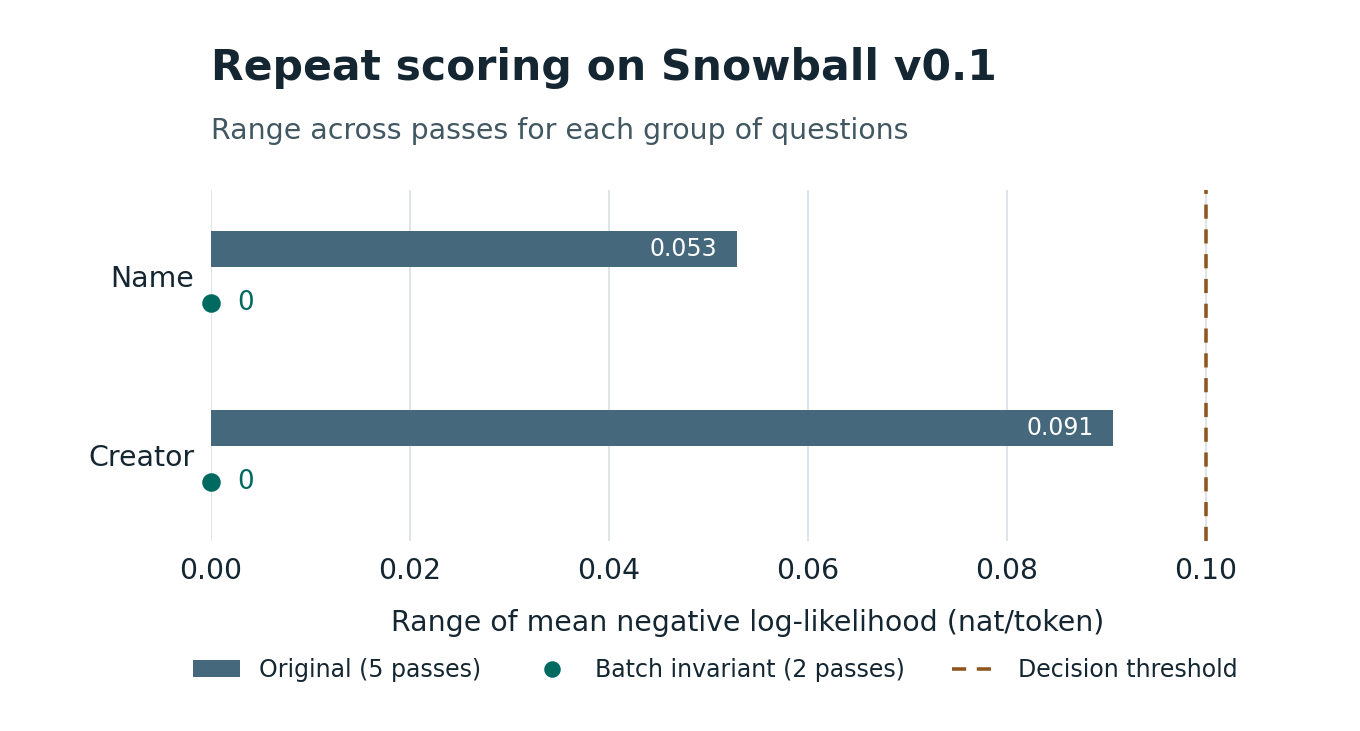
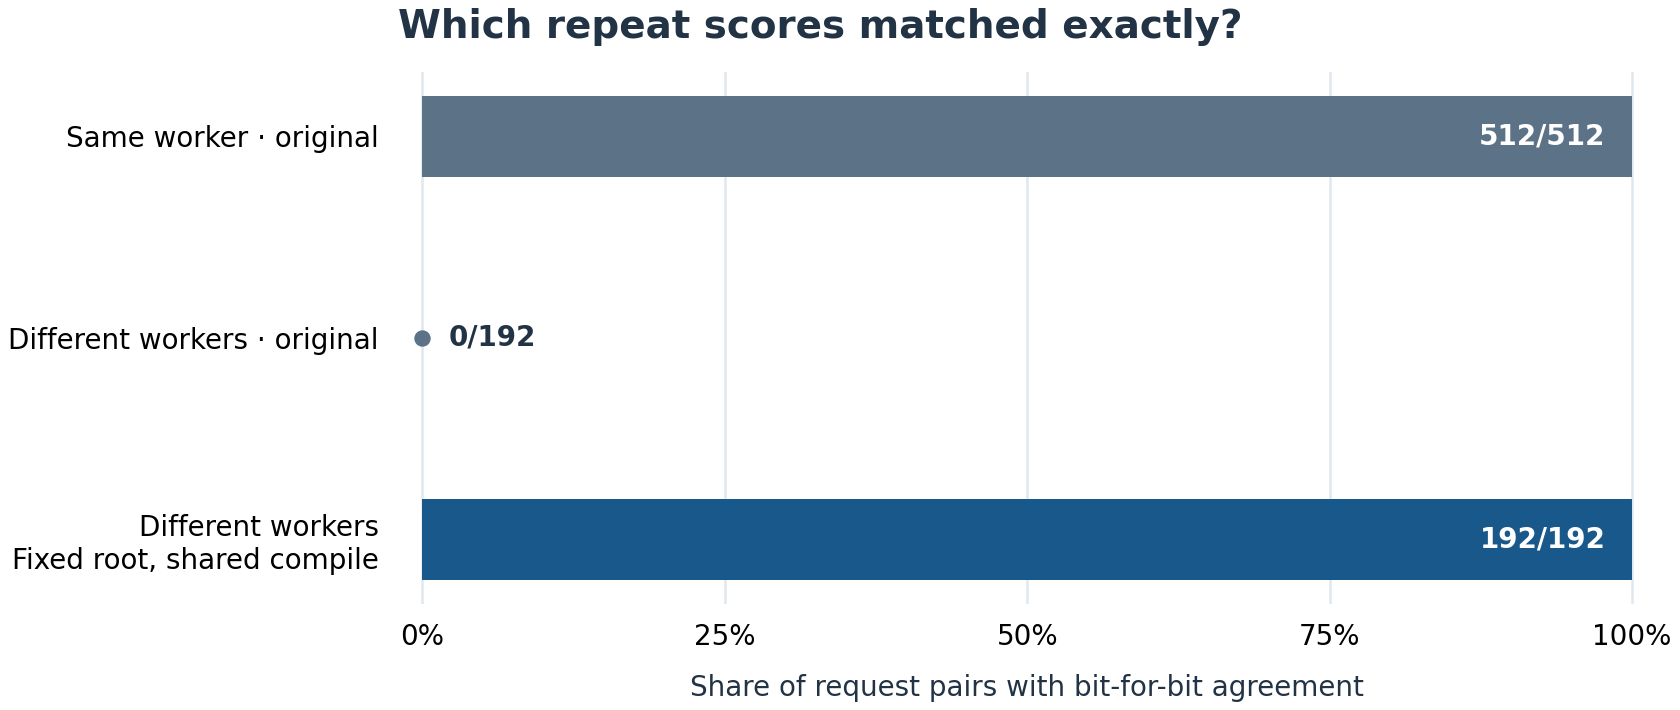
Focus the vLLM note on scoring repeatability

diff --git a/_research_notes/snowball-vllm-repeatability.md b/_research_notes/snowball-vllm-repeatability.md
@@ -1,26 +1,28 @@
 ---
-title: "Making Snowball's vLLM scores repeatable"
+title: "Repeatable log-probability scores in vLLM"
 date: 2026-11-13
 tags: [engineering]
-description: "All 206 answer scores matched across two passes on a Snowball serve with batch invariance enabled."
+description: "Snowball's log-probabilities repeated across GPU workers and fresh launches within each tested compile mode."
 ---
 
-We used vLLM to decide whether a short fine-tune made Snowball better at naming itself and its creator. On our original serve, the same checkpoint's mean score on creator questions varied by 0.091 nat/token across five passes. An improvement of 0.10 nat/token could decide whether we kept training. In a retest on Marin's vLLM fork at `01911be3` with batch invariance enabled, all 206 answer-option scores matched exactly across two passes on the Snowball v0.1 baseline. [Repeat test](https://github.com/marin-community/marin/issues/10699#issuecomment-6866411632)
+The same text and model weights can yield different token log-probabilities in a distributed vLLM serve. On one Snowball v0.1 deployment with batch invariance enabled, all 206 summed log-probabilities matched exactly across two passes. On a second Snowball checkpoint, scores matched across GPU workers and fresh launches within each tested compile mode. Switching compile modes changed the mean log-probability of a prompt by up to 0.0034 nat per token. [Repeat measurements](https://github.com/marin-community/marin/issues/10699#issuecomment-6866411632)
 
-[Marin issue #10699](https://github.com/marin-community/marin/issues/10699) · [Identity experiment #10695](https://github.com/marin-community/marin/issues/10695) · [Identity SFT logbook](https://github.com/marin-community/marin-logbooks/issues/23)
+[Marin issue #10699](https://github.com/marin-community/marin/issues/10699)
 
-## Background
+## Why the worker matters
 
-For a question like “Who trained you?”, the scorer sends the prompt with each possible answer in turn and sums the log-probabilities of the answer tokens. To decide whether to continue a fine-tune, we compare the baseline and the candidate on how much probability they assign to the correct answer. For each question we divide the correct answer's negative log-probability by its token count, then average over questions about the model's name or its creator.
+We sent scoring requests for fixed text and compared the model's log-probabilities for those tokens. The load balancer can send identical requests to different GPU workers even when requests arrive one at a time. Each request still uses experts distributed across the workers. In the original reduction, the order of the additions can depend on which worker serves the request. Floating-point addition rounds at each step, so changing that order can change the result.
 
-We sent one request at a time at temperature zero. The server could assign a repeat request to a different GPU worker. The assigned worker handles the request, but Snowball's experts span all eight workers. Token representations go to the workers that hold the chosen experts, and their outputs are combined. Adding the same floating-point values in a different order can change the result. On a separate four-worker configuration, scores matched on repeated requests pinned to the same worker but differed across workers. Summing expert outputs on one designated worker before redistributing them eliminated the measured cross-worker differences when the workers used the same compiled graph. The measured eight-worker fork uses this reduction under batch invariance. [Four-worker diagnostic](https://github.com/marin-community/marin/issues/10699#issuecomment-6553220242) · [Reduction code](https://github.com/marin-community/vllm/blob/01911be34fac8715347962a8d791ca34a879e01e/vllm/distributed/device_communicators/cuda_communicator.py#L525-L531)
+On a four-worker Snowball serve running an earlier revision of Marin's vLLM fork, all 512 repeats pinned to the same worker matched exactly. Across workers, zero of 192 pairs matched. The fixed-root test summed expert outputs on the same designated worker for every request, then redistributed the result. With the same compiled graph loaded on each worker, all 192 cross-worker pairs matched. Marin's vLLM fork at `01911be3` uses this fixed-root reduction when batch invariance is enabled. Batch invariance is intended to keep results stable across changes in batch size and request order. [Four-worker diagnostic](https://github.com/marin-community/marin/issues/10699#issuecomment-6553220242) · [Reduction code](https://github.com/marin-community/vllm/blob/01911be34fac8715347962a8d791ca34a879e01e/vllm/distributed/device_communicators/cuda_communicator.py#L525-L531)
 
-## Approach and results
+![On the four-worker diagnostic, 512 of 512 same-worker pairs and none of 192 cross-worker pairs matched originally. With fixed-root reduction and a shared compiled graph, 192 of 192 cross-worker pairs matched.](/assets/images/research-notes/snowball-vllm-repeatability/score-repeatability.png)
 
-Batch invariance is vLLM's setting for making results independent of batch size and request order. We ran the baseline checkpoint again with `VLLM_BATCH_INVARIANT=1` and the default compile settings. As in the original run, we sent requests one at a time and let the server choose the worker. Across 24 primary questions, the scorer made 206 requests per pass. Every summed answer log-probability matched across the two passes. The mean for each question group also matched exactly. This retest used a different cluster and covered the baseline only. It leaves open whether the entire baseline-versus-candidate decision would repeat. [Batch invariance at the measured revision](https://github.com/marin-community/vllm/blob/01911be34fac8715347962a8d791ca34a879e01e/docs/features/batch_invariance.md) · [Original measurements](https://gist.github.com/karansag/2ac0c5798b18bfdbec9a81b7090361d2#file-m16-gate-baseline-json) · [Retest data](https://github.com/marin-community/marin/blob/da6495dba4c244d2fb30dd95f7fa748a45bb4010/experiments/post_training/issue_10699_results/gate-repeat-v0.1-batch-invariant.json)
+*Share of request pairs with bit-for-bit agreement in the four-worker diagnostic. The final comparison loaded the same compiled graph on each worker. [Source](https://github.com/marin-community/marin/issues/10699#issuecomment-6553220242)*
 
-![The original range was 0.053 nat per token for name questions and 0.091 for creator questions. Both ranges were zero in the batch-invariant retest. A dashed line marks the 0.10 threshold for checkpoint improvement.](/assets/images/research-notes/snowball-vllm-repeatability/score-repeatability.png)
+## Repeatability on eight workers
 
-*The range is the highest minus the lowest pass mean, over five original passes and two batch-invariant passes. Both measurements used the same 24 primary questions on Snowball v0.1. The decision threshold is shown for scale.*
+On the eight-worker Snowball v0.1 deployment, we sent the same 206 scoring requests twice with `VLLM_BATCH_INVARIANT=1` and let vLLM choose the worker. All 206 summed log-probabilities matched across passes. This was a retest of the baseline checkpoint on a different cluster from the original evaluation. [Retest data](https://github.com/marin-community/marin/blob/da6495dba4c244d2fb30dd95f7fa748a45bb4010/experiments/post_training/issue_10699_results/gate-repeat-v0.1-batch-invariant.json)
 
-We also tested fresh launches with batch invariance on a second checkpoint of the same architecture. All 17 prompts matched across eight workers, and across two fresh launches within each of two compile modes. Scores differed between modes by up to 0.0034 nat/token. For checkpoint comparisons on this stack, we can check repeatability with the same prompts and use the same compile mode for both checkpoints. The eight-worker test sent at most one request per worker at a time. [Launch measurements](https://github.com/marin-community/marin/tree/da6495dba4c244d2fb30dd95f7fa748a45bb4010/experiments/post_training/issue_10699_results) · [Closeout](https://github.com/marin-community/marin/issues/10699#issuecomment-6866411632)
+On the second checkpoint, we started four fresh eight-worker serves with batch invariance. Two used the default compile mode and two used deterministic compilation. Each launch scored the same 17 prompts on all eight workers. Every prompt's token log-probabilities matched across workers and between launches using the same mode. When we compared modes, at least one token's score differed in every prompt-worker pair. Matching the compile mode matters when comparing scores from two serves. The eight-worker tests covered up to one request in flight per worker. [Launch results](https://github.com/marin-community/marin/tree/da6495dba4c244d2fb30dd95f7fa748a45bb4010/experiments/post_training/issue_10699_results)
+
+We first noticed the variation while scoring a fine-tune that taught Snowball to identify itself. The original baseline's mean loss on creator questions varied by 0.091 nat per token across five passes. An improvement of 0.10 could decide whether training continued. The 206-request retest measured baseline repeatability. [Identity experiment](https://github.com/marin-community/marin/issues/10695) · [Original score spread](https://github.com/marin-community/marin/issues/10699#issuecomment-6866411632)
